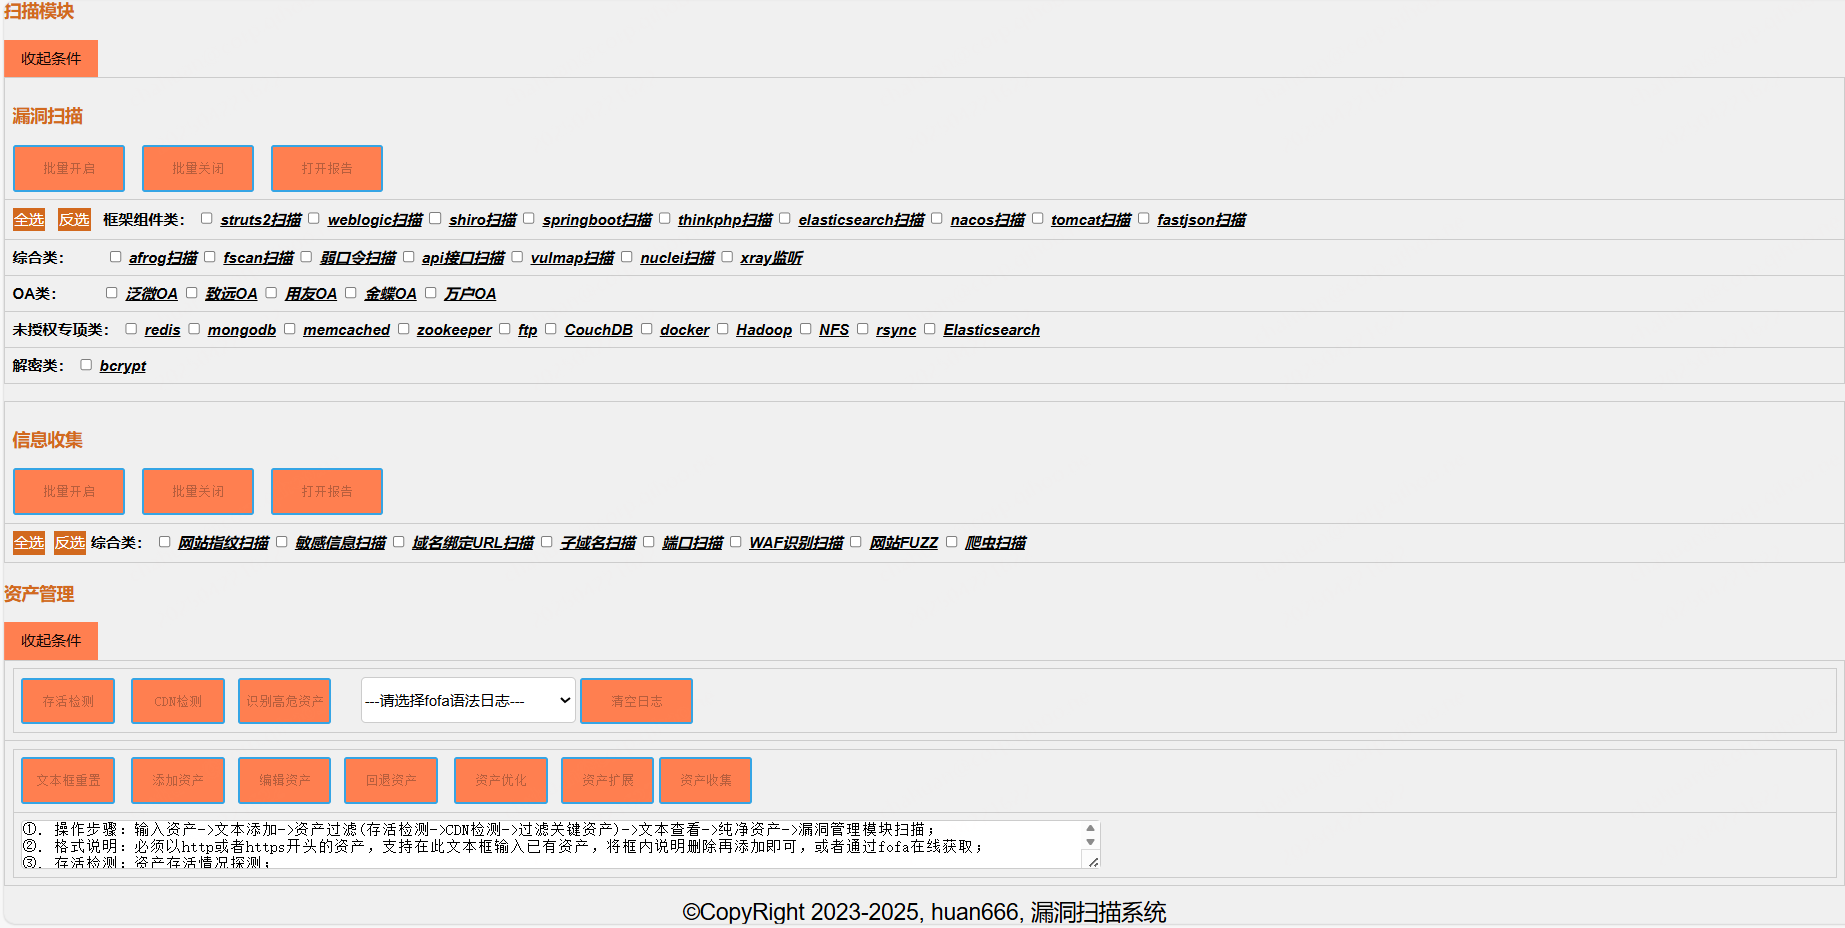
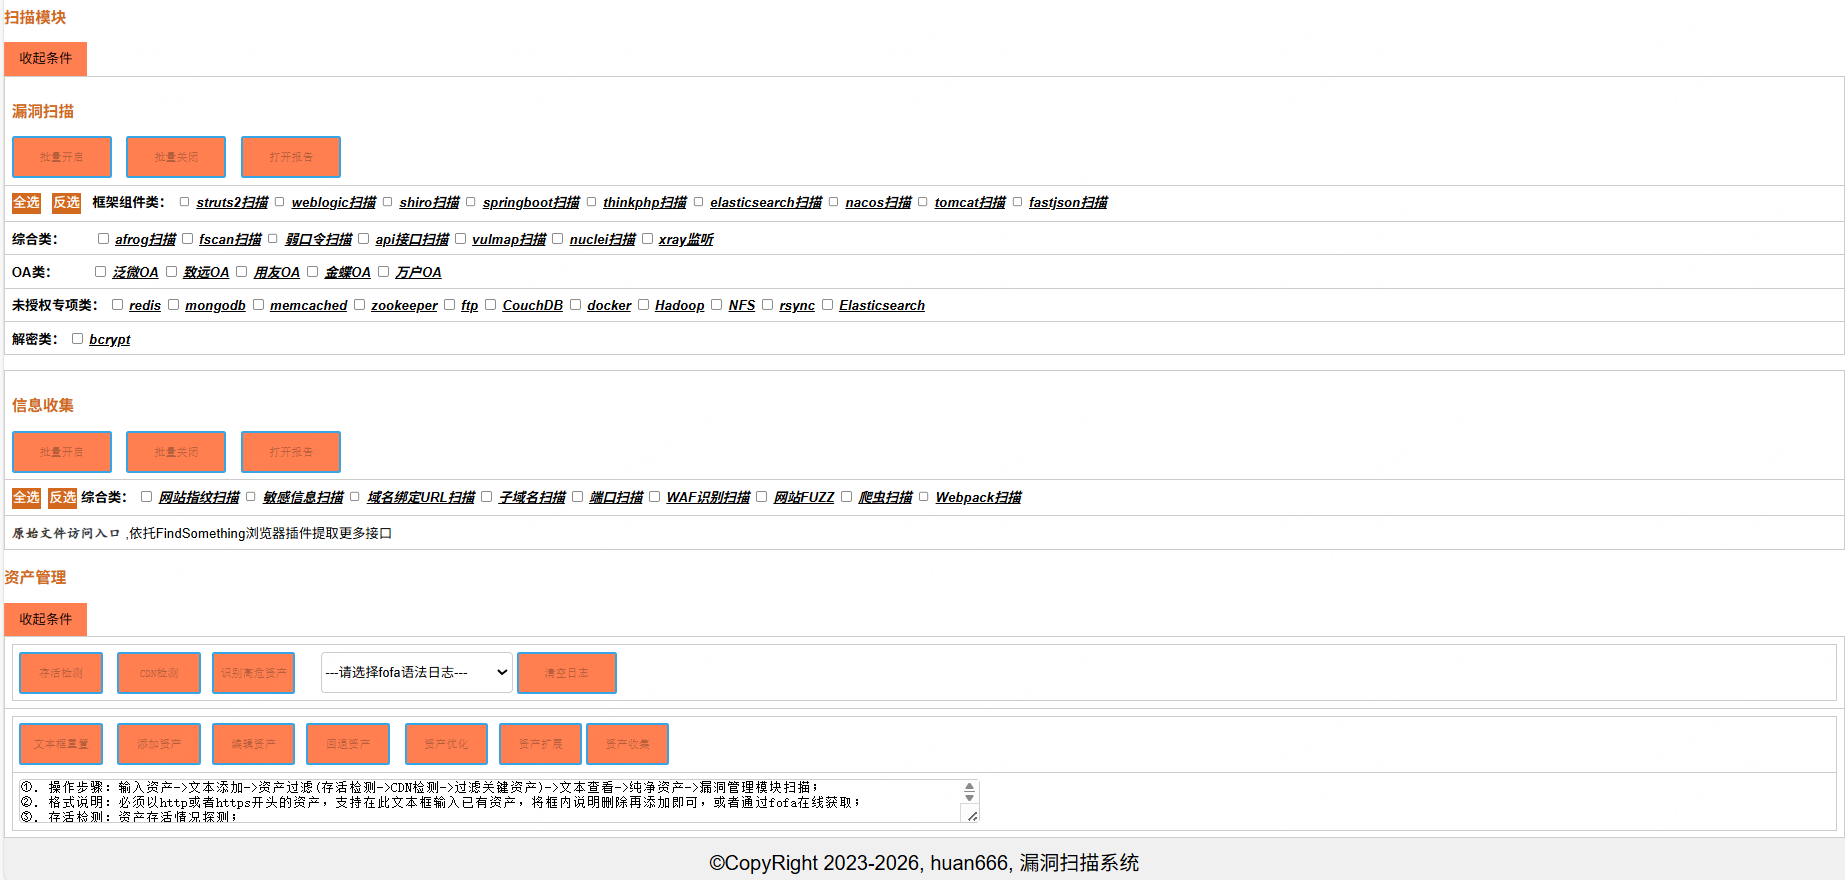
系统优化

Changed region(s): [[0.0, 0.0, 1.0, 1.0]]

diff --git a/static/css/common.css b/static/css/common.css
@@ -1046,21 +1046,35 @@ body {
     cursor: pointer;
     font-weight: bold;
     font-size: 16px;
-    color: #fff; /* 基础文字颜色 */
-    /* 彩色文字阴影（模拟发光） */
-    text-shadow: 
-        0 0 5px #ff00ff,
-        0 0 10px #00ffff,
-        0 0 15px #ffff00,
-        0 0 20px #00ff00;
-    /* 可选：hover时增强效果 */
-    transition: text-shadow 0.3s ease;
+	font-family: "KaiTi", "STKaiti", "AR PL UKai CN", "AR PL KaitiM GB", "KaiTi_GB2312", serif;
+    /* 低饱和渐变配色（柔和不刺眼） */
+    background: linear-gradient(90deg, 
+        #e6646588, /* 浅红 */
+        #f6b73c88, /* 浅橙黄 */
+        #82c3a688, /* 浅绿 */
+        #6fa8dc88, /* 浅蓝 */
+        #9966cc88, /* 浅紫 */
+        #c27ba088  /* 浅粉紫 */
+    );
+    -webkit-background-clip: text;
+    background-clip: text;
+    color: #333; /* 底层浅灰色文字，弱化渐变刺眼感 */
+    /* 细微文字间距，提升可读性 */
+    letter-spacing: 0.5px;
+    /* hover轻微变化，不突兀 */
+    transition: all 0.3s ease;
 }
 
 .webpackorigin:hover {
-    text-shadow: 
-        0 0 8px #ff00ff,
-        0 0 15px #00ffff,
-        0 0 20px #ffff00,
-        0 0 30px #00ff00;
+    color: transparent; /* hover时完全显示渐变，轻微强化 */
+    background: linear-gradient(90deg, 
+        #e66465aa, 
+        #f6b73caa, 
+        #82c3a6aa, 
+        #6fa8dcaa, 
+        #9966ccaa, 
+        #c27ba0aa
+    );
+    -webkit-background-clip: text;
+    background-clip: text;
 }

diff --git a/templates/index.html b/templates/index.html
@@ -357,9 +357,8 @@
 					</tr>
 					<tr style=" border: 2px solid palevioletred ; border-collapse: collapse;">
 						<td>
-							<span>访问 Webpack 原始文件时，可依托FindSomething浏览器插件提取更多接口维度的有效信息。</span>
-							&nbsp;&nbsp;
-							<span class="webpackorigin">点我访问原始文件</span>
+							<span class="webpackorigin" onclick="jumpwebpackoriginfile()">原始文件访问入口</span>
+							<span>,依托FindSomething浏览器插件提取更多接口</span>
 						</td>
 					</tr>
 				</table>
@@ -446,7 +445,7 @@
 				</table>
 			</div>
 		</div>
-		<div class="footer">©CopyRight 2023-2025, huan666, 漏洞扫描系统</div>
+		<div class="footer">©CopyRight 2023-2026, huan666, 漏洞扫描系统</div>
 </body>
 
 </html>

diff --git a/static/js/common.js b/static/js/common.js
@@ -3940,3 +3940,9 @@ function conntargetnetworkfunc() {
         }
     })
 }
+
+
+// 跳转到webpack原始文件
+function jumpwebpackoriginfile() {
+    window.open(ipvalue + ":12222/", "_blank");
+}
